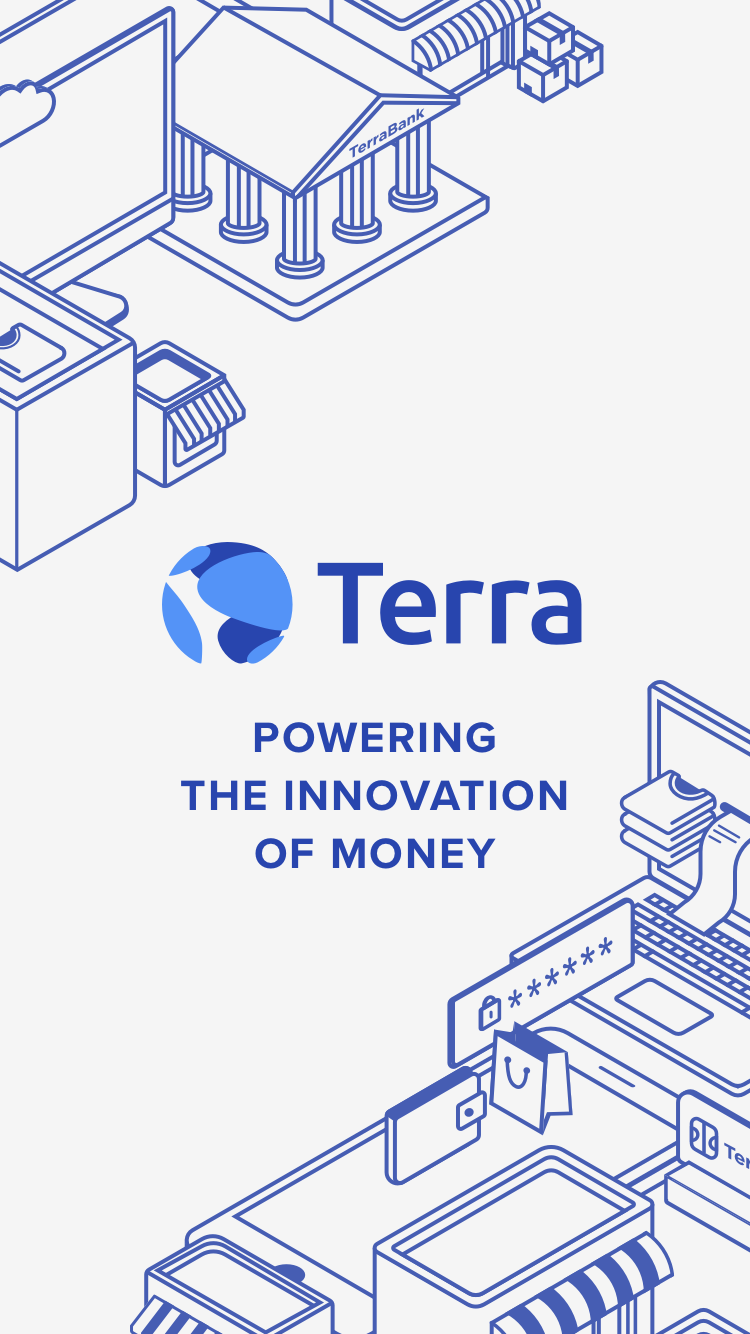
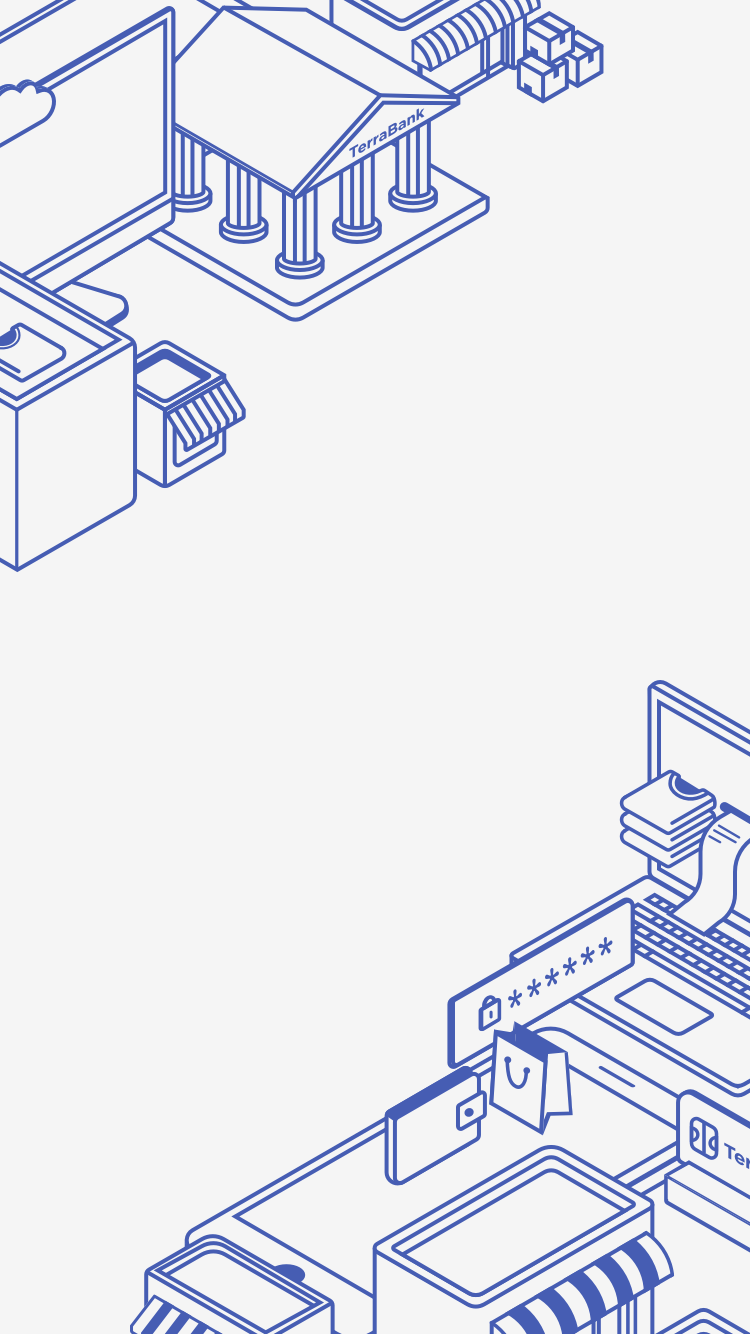
#about-image setting

Changed region(s): [[0.2453, 0.5225, 0.7667, 0.6762], [0.4293, 0.3996, 0.7973, 0.4918], [0.2147, 0.3996, 0.3987, 0.5225]]

diff --git a/static/scripts/main.js b/static/scripts/main.js
@@ -1,5 +1,6 @@
 $(document).ready(function () {
-  isMobile = $('html, body').width() < 600 ? true : false;
+  bodyWidth = $('html, body').width();
+  isMobile = bodyWidth < 600 ? true : false;
   if (isMobile) {
     $("#menu-close").hide();
     $("header").hide();
@@ -49,23 +50,34 @@ $(document).ready(function () {
   if (bodyWidth < 1600) {
     $("html, body").scrollLeft((1600 - bodyWidth) / 2)
   }
-  
+
   // 
-  
+
   function calcHeight() {
-    if ($('html, body').width() <= 1080) {
+    if (bodyWidth <= 1080) {
       $('#about, #product').height(607.5);
     } else {
-      $('#about, #product').height($('html, body').width() / 1.77777 )
+      $('#about, #product').height(bodyWidth / 1.77777)
     }
   };
-  
-  if (!isMobile) {
+
+  if (!isMobile) { // desktop
     calcHeight();
-    $( window).resize(function() {
+    $(window).resize(function () {
       calcHeight();
     });
-  } else {
-      $("#about #about-form").css("margin-top", $(window).height() - 120);
-	}
+  } else { // mobile
+    $("#about #about-form").css("margin-top", $(window).height() - 120);
+    
+    
+    // default mobile size is 375 * 667( iPhone 6/7/8)  
+    var newWidth = bodyWidth * 210 / 375;
+    var newHeight = 164 * newWidth / 210;
+    $("#about #about-image").css({
+      width: newWidth,
+      height: newHeight,
+      "margin-left": - newWidth * 0.5,
+      "margin-top": - newHeight * 0.5
+    });
+  }
 });

diff --git a/index.html b/index.html
@@ -71,6 +71,7 @@
     </nav>
   </header>
   <section id="about">
+    <img id="about-image" src="/static/images/about-image.png" alt="">
     <div id="about-form">
       <form action="https://money.us17.list-manage.com/subscribe/post?u=8eca8dc5c91c2e30d69b1463e&amp;id=1447662093" method="post" id="mc-embedded-subscribe-form" name="mc-embedded-subscribe-form" class="validate" target="_blank" novalidate>
         <input type="email" value="" name="EMAIL" class="email" id="mce-EMAIL" placeholder="Enter email for updates" required>

diff --git a/static/stylesheets/main.css b/static/stylesheets/main.css
@@ -102,6 +102,10 @@
     background-repeat: no-repeat;
     background-size: cover;
   }
+  
+  #about #about-image {
+    display: none;
+  }
 
   #about-form img {
     position: absolute;
@@ -868,13 +872,13 @@
     position: relative;
   }
 
-  #about #kv-logo {
+  #about #about-image {
     width: 210px;
-    height: 60px;
+    height: 164px;
     left: 50%;
     margin-left: -105px;
     top: 50%;
-    margin-top: -30px;
+    margin-top: -82px;
     position: absolute;
   }
 
